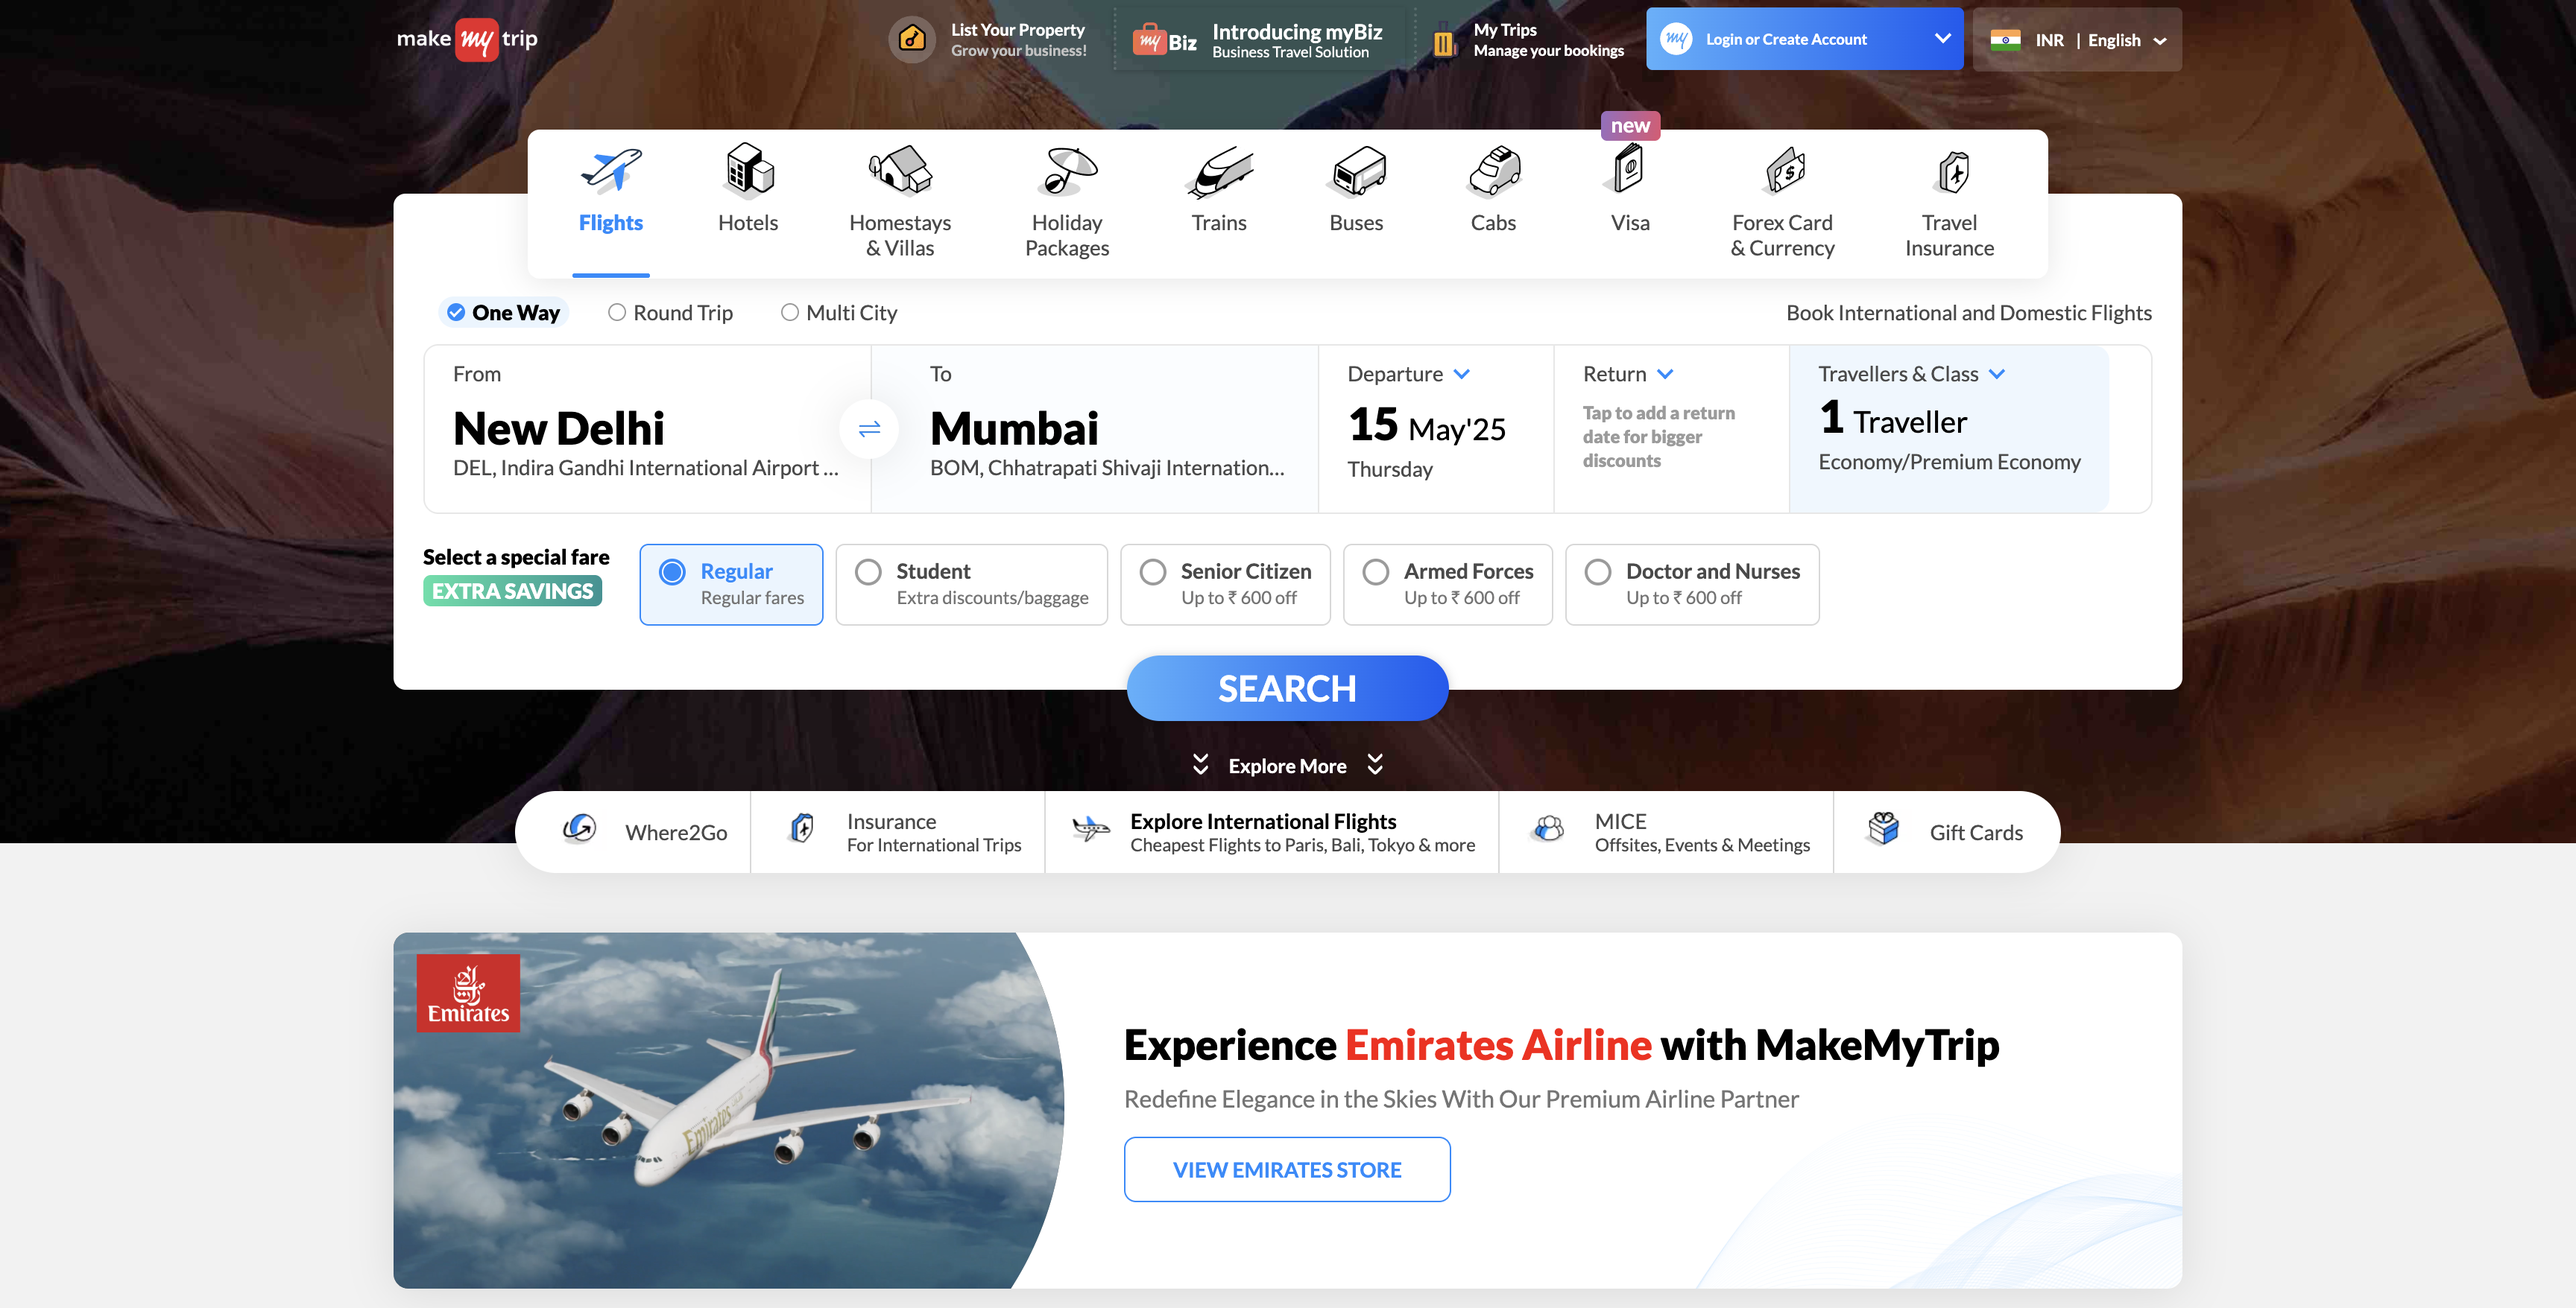
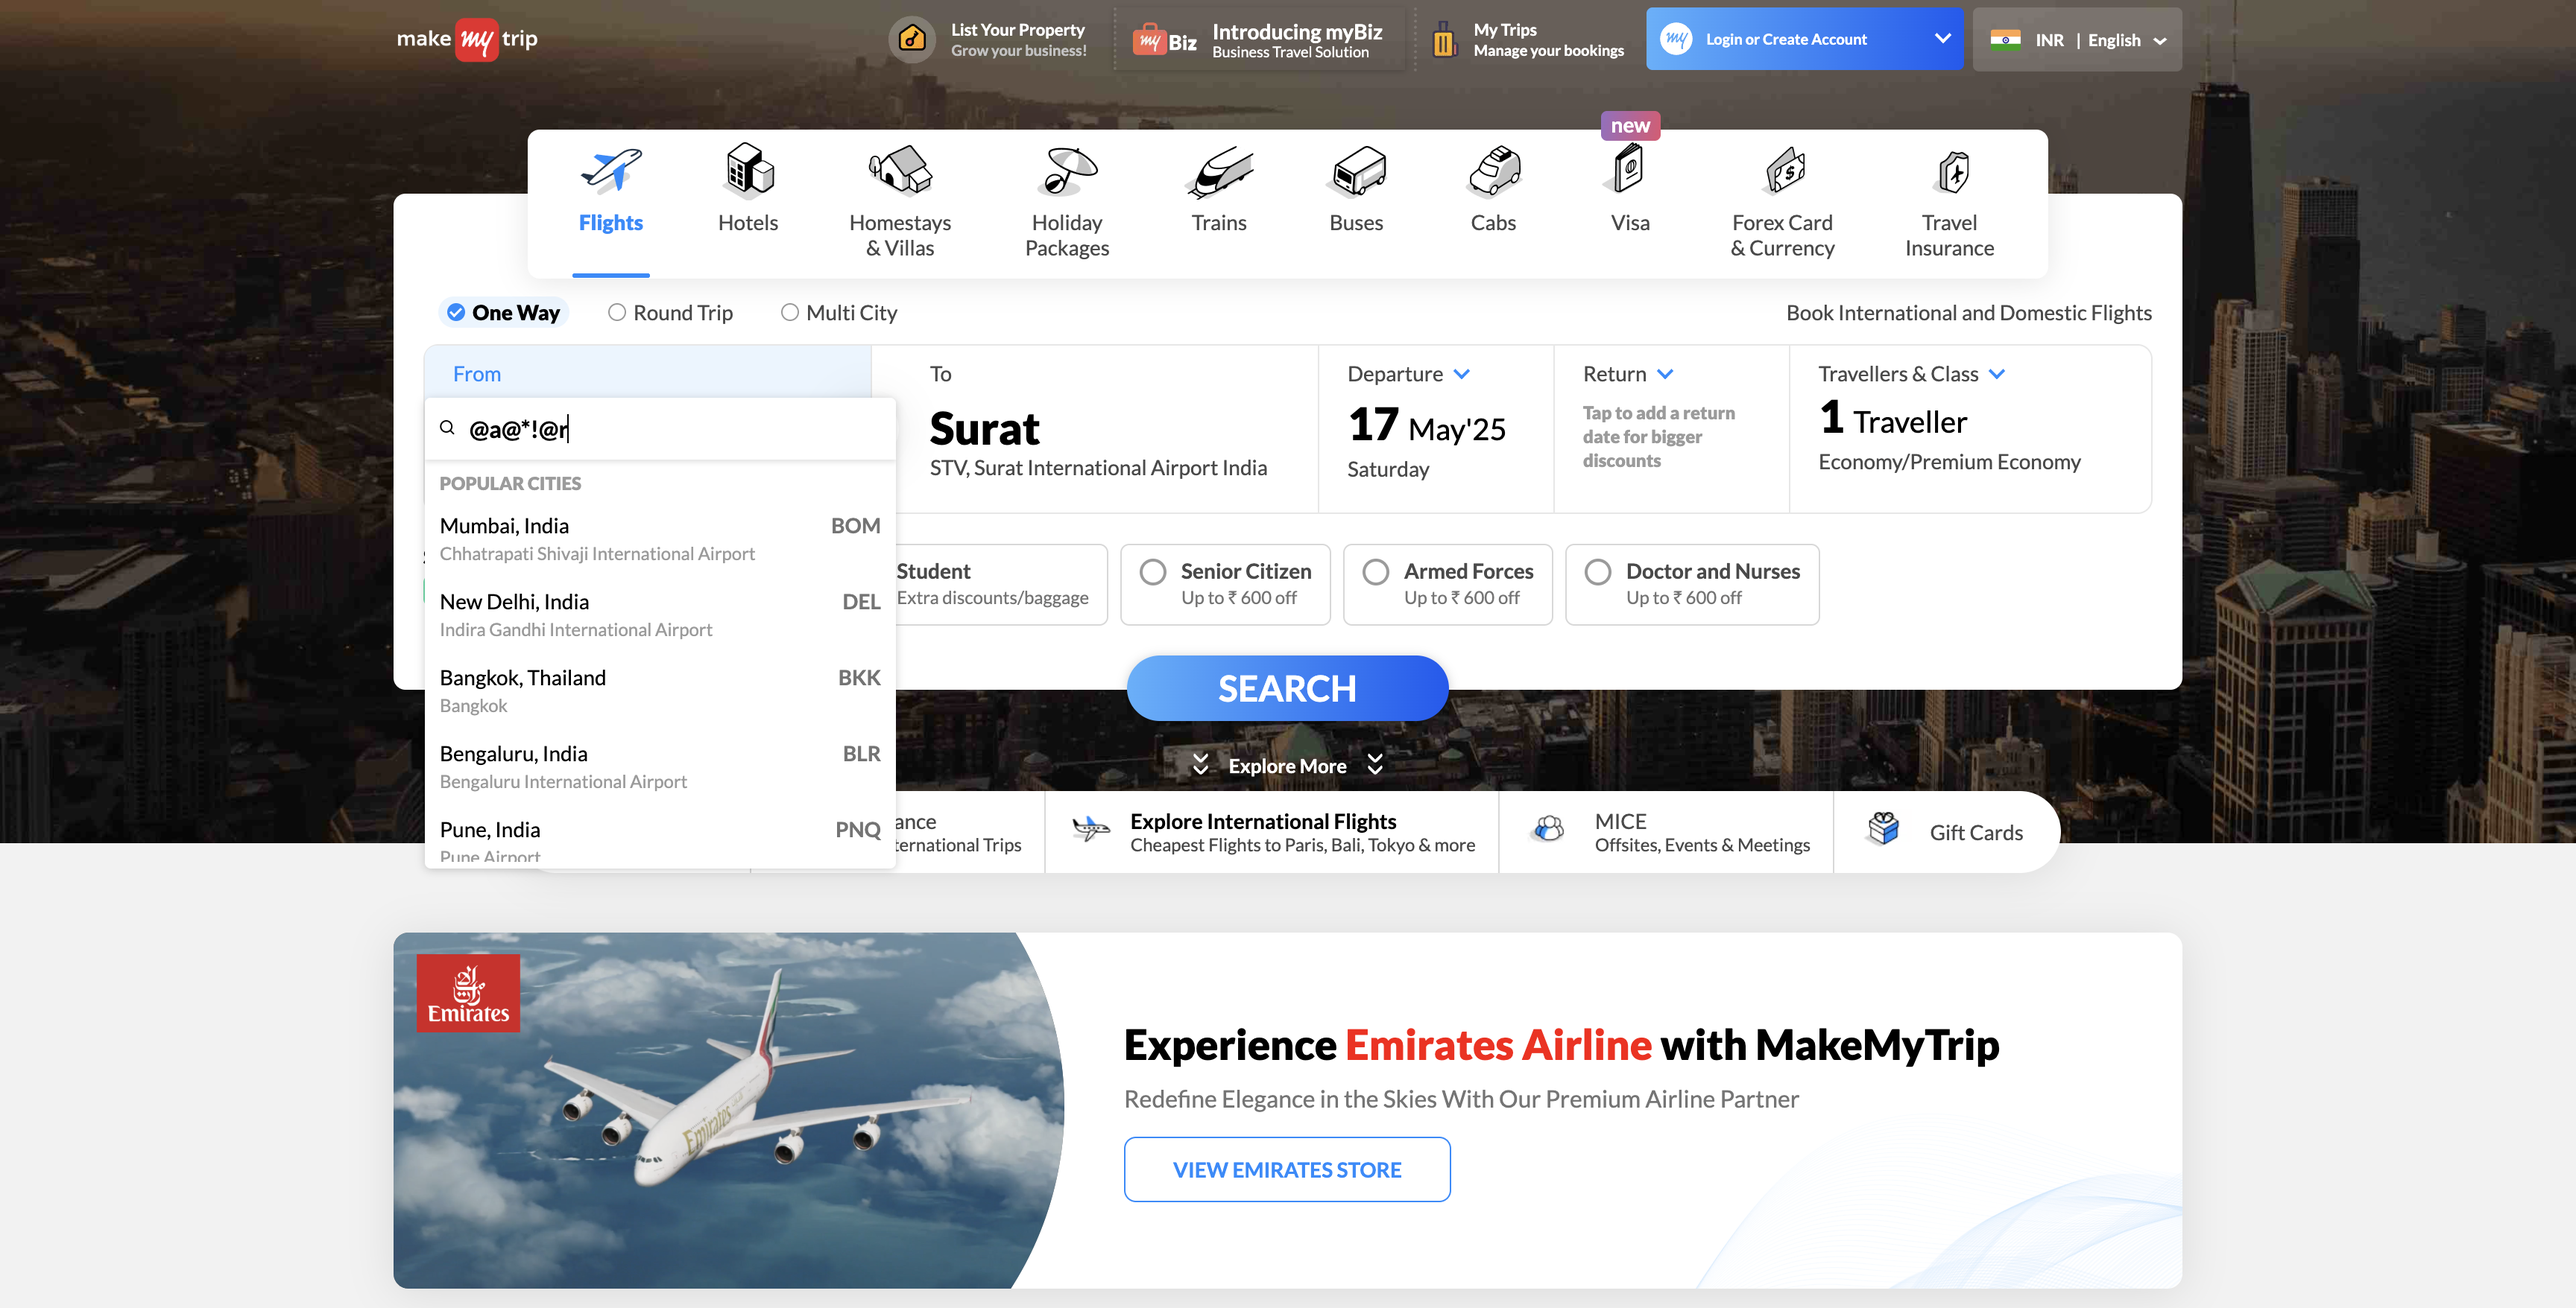
modified last 2 test cases

Changed region(s): [[0.0, 0.0, 1.0, 0.6765], [0.3438, 0.3075, 0.5, 0.369], [0.5312, 0.3075, 0.5625, 0.369]]

diff --git a/src/main/java/org/example/testingDemo/MakeMyTripFieldsTest.java b/src/main/java/org/example/testingDemo/MakeMyTripFieldsTest.java
@@ -25,8 +25,8 @@ public class MakeMyTripFieldsTest {
                 {"Ahmedabad", "Thiruvananthapuram"}, // TC04: To too long (long name)
                 {"12345", "Hyderabad"},     // TC05: From numeric
                 {"Kolkata", "67890"},       // TC06: To numeric
-                {"Ja@pur", "Surat"},        // TC07: From with special char
-                {"Pune", "Lu@know"},        // TC08: To with special char
+                {"@a@*!@r", "Surat"},        // TC07: From with special char
+                {"Pune", "@u@kn#"},        // TC08: To with special char
         };
         Actions actions = new Actions(driver);
 
@@ -44,7 +44,7 @@ public class MakeMyTripFieldsTest {
                     popupClose.click();
                 } catch (Exception ignored) {}
 
-                if (fromInput.matches(".*\\d.*")) {
+                if (fromInput.matches(".*\\d.*") || fromInput.equals("@a@*!@r")) {
                     // Enter "To" field
                     WebElement toField1 = wait.until(ExpectedConditions.elementToBeClickable(By.id("toCity")));
                     Thread.sleep(1000);
